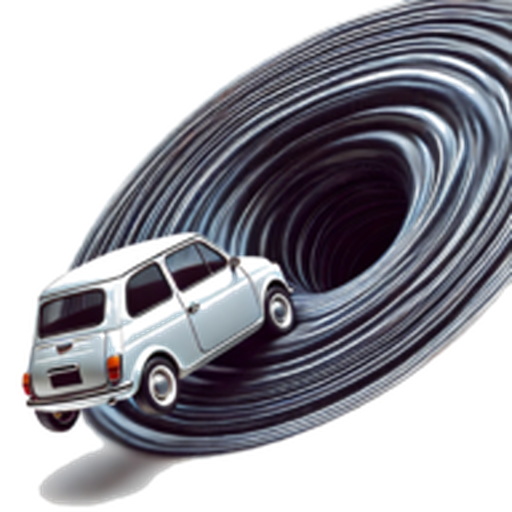
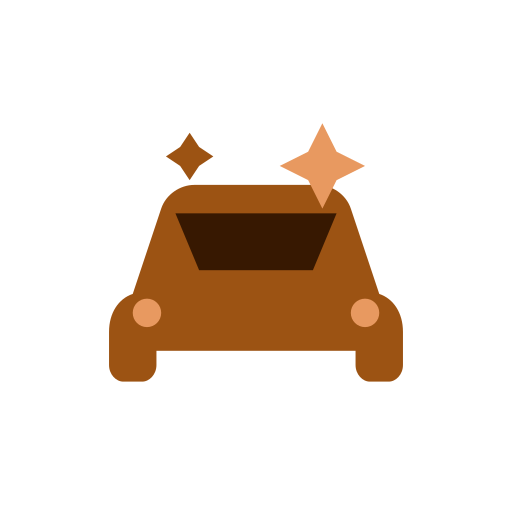
feat(design): implement the brand colour system (hue 55 orange)
BRANDING.md decided one hue per project; this wires it through the app,
the launcher icon and the website. Tones are derived from oklch(L C 55) —
brand oklch(0.52 0.12 55), light ground 0.95/0.03, dark accent 0.75/0.12 —
never hand-picked, so the set can be moved by changing L/C once. Material3
surfaces are overridden too (its baseline surface is violet-tinted), and
the identity colours that were hard-coded in five layouts became tokens.
Feedback green/red and Instagram pink stay off-hue deliberately.

diff --git a/site/site.css b/site/site.css
@@ -1,18 +1,29 @@
-/* autokorrektur.org -- the landing, privacy and Impressum pages. Palette from the launcher icon
-   (app/src/main/res/drawable/ic_launcher_*.xml: navy, indigo, sky, green); no external resource
-   (the site's CSP is default-src 'self', server repo role autokorrektur). Same layout as
-   laberampel.de's site.css. */
+/* autokorrektur.org -- the landing, privacy and Impressum pages. Palette: BRANDING.md, hue 55°
+   (orange). Every tone is oklch(L C 55) with only L and C moved; if something doesn't fit, move
+   L/C for the whole set instead of patching one value. No external resource (the site's CSP is
+   default-src 'self', server repo role autokorrektur). Same layout as laberampel.de's site.css. */
 :root {
   color-scheme: light dark;
-  --brand: #1E1B4B; --primary: #4F46E5; --on-primary: #fff; --primary-container: #E0E7FF;
-  --bg: #F8FAFF; --surface: #fff; --surface-2: #EEF2FF; --ink: #0F172A; --muted: #4B5563;
-  --outline: #C7D2FE; --accent: #3730A3; --green: #059669; --focus: #0072B2;
+  --brand: oklch(0.52 0.12 55);          /* #9c5313 -- white on it is 5.7:1 */
+  --primary: oklch(0.52 0.12 55);
+  --on-primary: #fff;
+  --primary-container: oklch(0.95 0.03 55);
+  --bg: oklch(0.985 0.008 55);
+  --surface: #fff;
+  --surface-2: oklch(0.95 0.03 55);
+  --ink: oklch(0.25 0.06 55);
+  --muted: oklch(0.48 0.04 55);
+  --outline: oklch(0.86 0.04 55);
+  --accent: oklch(0.44 0.12 55);
+  --focus: #0072B2;
   --font: system-ui, -apple-system, "Segoe UI", Roboto, "Noto Sans", sans-serif;
 }
 @media (prefers-color-scheme: dark) {
-  :root { --primary: #A5B4FC; --on-primary: #1E1B4B; --primary-container: #312E81;
-    --bg: #0F172A; --surface: #1E1B4B; --surface-2: #1E293B; --ink: #E2E8F0; --muted: #A5B4C8;
-    --outline: #3730A3; --accent: #A5B4FC; --green: #34D399; }
+  :root { --primary: oklch(0.75 0.12 55); --on-primary: oklch(0.25 0.06 55);
+    --primary-container: oklch(0.38 0.09 55);
+    --bg: oklch(0.18 0.02 55); --surface: oklch(0.22 0.025 55); --surface-2: oklch(0.26 0.03 55);
+    --ink: oklch(0.93 0.02 55); --muted: oklch(0.75 0.02 55);
+    --outline: oklch(0.35 0.03 55); --accent: oklch(0.75 0.12 55); }
 }
 * { box-sizing: border-box; }
 body { margin: 0; background: var(--bg); color: var(--ink); font: 18px/1.55 var(--font); }

diff --git a/CHANGELOG.md b/CHANGELOG.md
@@ -28,6 +28,7 @@ and this project adheres to [Semantic Versioning](https://semver.org/spec/v2.0.0
 - `app/lint-baseline.xml`: baselines 119 pre-existing `MissingTranslation` lint errors (`values/strings.xml` vs `values-en`), confirmed present before this session's work (same root cause as the `StringResourceLocalizationTest` ratchet, TESTING.md §8), so CI isn't blocked by unrelated debt. Doesn't fix or hide the underlying issue — a newly introduced lint issue still fails CI.
 
 ### Changed
+- **Brand colours implemented** (BRANDING.md, hue 55° orange, decided 2026-09-22): `values/colors.xml` holds the full palette, every tone derived from that one hue with OKLCH rather than picked by hand, and the Material3 theme (light + dark) is wired to it — including surfaces, because Material's baseline surface is violet-tinted and fought the brand. The identity colours hard-coded across five layouts (indigo `#818CF8`, sky `#38BDF8`, the near-black chrome, muted slate) became named tokens; feedback green/red and Instagram's pink stay off-hue on purpose. Launcher icon, website palette (`site/site.css`, written as `oklch()`) and the two Play Store icon PNGs follow the same hue.
 - Security/privacy audit of the public repo (2026-09-21): gitleaks over all 203 commits found no credentials (one false positive, an IDE UUID); no secrets, keys or tokens were ever committed, so no history rewrite. Cleaned up what a public repo shouldn't carry: 41 `file:///home/…` links in the docs became relative links, the Pixel's LAN address left `README.md`/`TODO-for-human.md`, the deploy SSH target moved from `site/site.env` to the gitignored `site/deploy.local.env`, `backend/docker-compose.yml` no longer has a default Redis password (`REDIS_PASSWORD` is required; `backend/.env` gitignored), and the IDE state files `.idea/planningMode.xml`/`deviceManager.xml` are untracked.
 - `docs/PLAY_STORE_LISTING.md` rewritten for the `core` flavor: the previous copy advertised Live AR, video clips, three engine tiers, cloud SDXL, brush and multi-layout export — none of which the Play build contains (a Play policy problem, not just stale text). Screenshot note added: the three in `media/play_store_assets/` show non-core features and must be retaken.
 - `RELEASE_CHECKLIST.md` stale items (hand-edit versionCode/versionName, generate keystore) marked resolved; `TODO-for-human.md` states that its six scenarios target the `full` flavor.

diff --git a/docs/PLAY_STORE_LISTING.md b/docs/PLAY_STORE_LISTING.md
@@ -93,7 +93,9 @@ The models ship inside the app, which is why it is a few hundred megabytes. Andr
 
 ## 5. Grafiken
 
-`media/play_store_assets/`: Feature-Grafik und Icon sind verwendbar. **Die drei Screenshots dort
-zeigen Live-AR, den Engine-Wähler und den Multi-Layout-Export – Funktionen, die `core` nicht hat.**
+`media/play_store_assets/`: Die Icons (512×512, flächig und transparent) sind aktuell — sie werden
+aus `site/icons/icon.svg` erzeugt und tragen die Markenfarbe (BRANDING.md, Farbton 55°).
+**Die Feature-Grafik ist noch in der alten indigoblauen Fassung und muss neu gebaut werden.
+Die drei Screenshots dort zeigen Live-AR, den Engine-Wähler und den Multi-Layout-Export – Funktionen, die `core` nicht hat.**
 Vor dem Upload neue Screenshots vom `core`-Build machen (Startbildschirm, Ergebnis mit Schieberegler,
 Teilen-Menü mit der Split-Karte, Galerie); Vorgehen wie in `HUMAN_RELEASE_CHECKLIST.md` §5.
